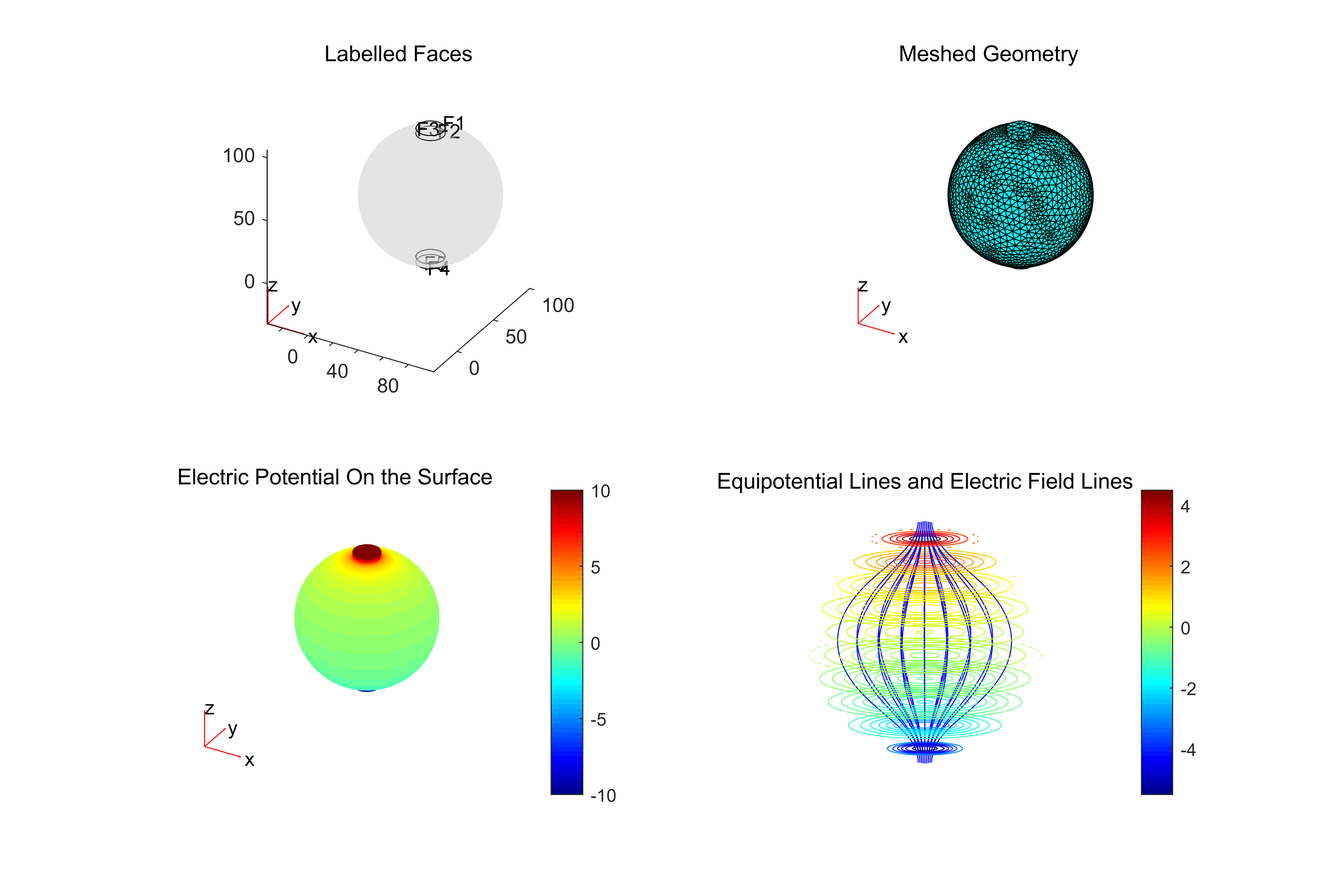
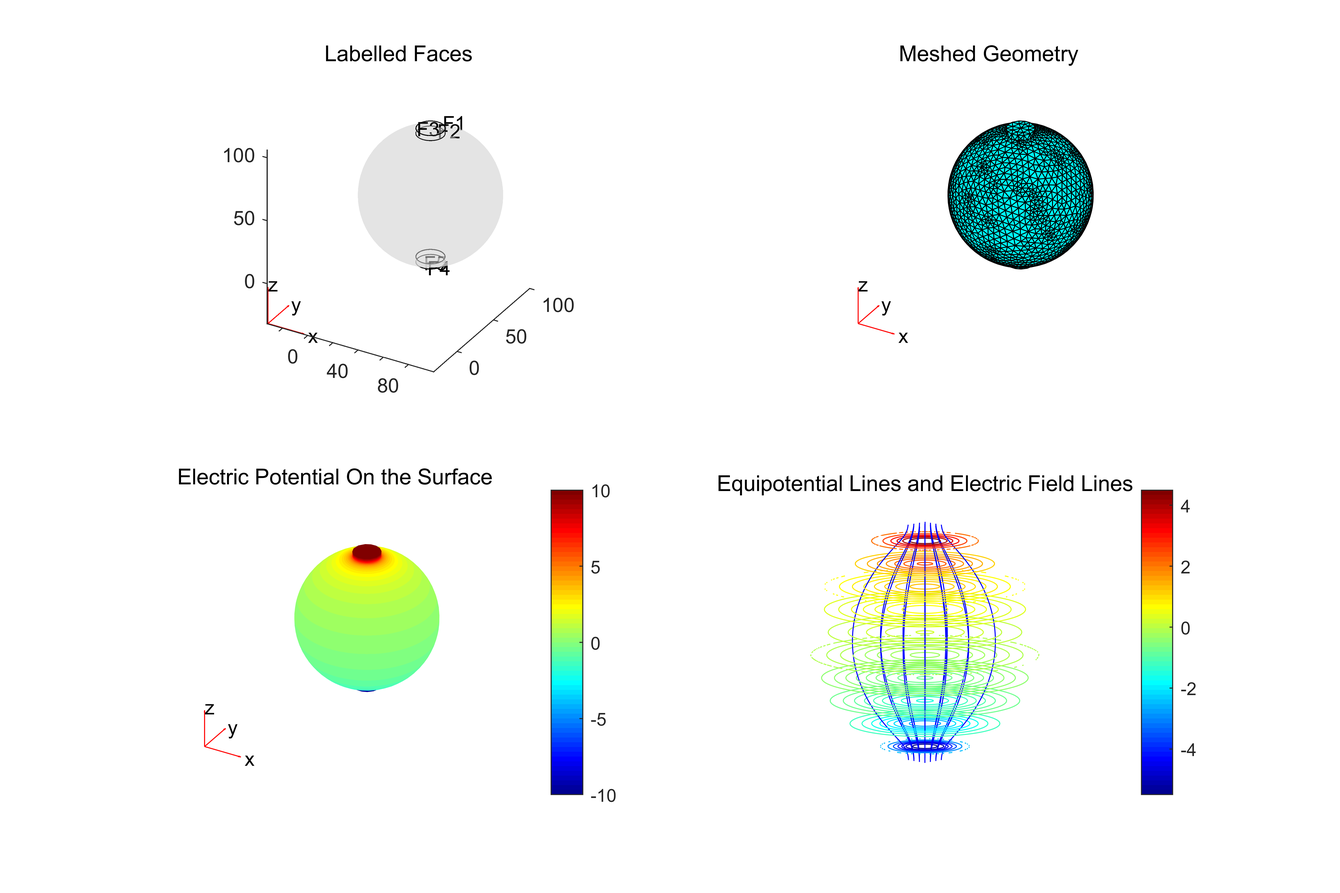
update hw10

Changed region(s): [[0.6222, 0.5928, 0.7778, 0.8736], [0.5289, 0.5304, 0.84, 0.5616]]

diff --git a/hw10/index.html b/hw10/index.html
@@ -300,6 +300,6 @@ header, .context-menu, .megamenu-content, footer { font-family: "Segoe UI", Aria
 </style>
 </head>
 <body class='typora-export os-windows' >
-<div  id='write'  class = 'is-node'><h1><a name='header-n0' class='md-header-anchor '></a>HOMEWORK NO.10</h1><pre spellcheck="false" class="md-fences md-end-block md-fences-with-lineno ty-contain-cm modeLoaded" lang="matlab" style="break-inside: unset;"><div class="CodeMirror cm-s-inner CodeMirror-wrap" lang="matlab"><div style="overflow: hidden; position: relative; width: 3px; height: 0px; top: 0px; left: 45px;"><textarea autocorrect="off" autocapitalize="off" spellcheck="false" tabindex="0" style="position: absolute; bottom: -1em; padding: 0px; width: 1000px; height: 1em; outline: none;"></textarea></div><div class="CodeMirror-scrollbar-filler" cm-not-content="true"></div><div class="CodeMirror-gutter-filler" cm-not-content="true"></div><div class="CodeMirror-scroll" tabindex="-1"><div class="CodeMirror-sizer" style="margin-left: 37px; margin-bottom: 0px; border-right-width: 0px; padding-right: 0px; padding-bottom: 0px;"><div style="position: relative; top: 0px;"><div class="CodeMirror-lines" role="presentation"><div role="presentation" style="position: relative; outline: none;"><div class="CodeMirror-measure"><span><span></span>x</span></div><div class="CodeMirror-measure"></div><div style="position: relative; z-index: 1;"></div><div class="CodeMirror-code" role="presentation" style=""><div class="CodeMirror-activeline" style="position: relative;"><div class="CodeMirror-activeline-background CodeMirror-linebackground"></div><div class="CodeMirror-gutter-background CodeMirror-activeline-gutter" style="left: -37px; width: 37px;"></div><div class="CodeMirror-gutter-wrapper CodeMirror-activeline-gutter" style="left: -37px;"><div class="CodeMirror-linenumber CodeMirror-gutter-elt CodeMirror-linenumber-show" style="left: 0px; width: 28px;">1</div></div><pre class=" CodeMirror-line " role="presentation"><span role="presentation" style="padding-right: 0.1px;"><span class="cm-comment">% import the solving obiect</span></span></pre></div><div style="position: relative;"><div class="CodeMirror-gutter-wrapper" style="left: -37px;"><div class="CodeMirror-linenumber CodeMirror-gutter-elt" style="left: 0px; width: 28px;">2</div></div><pre class=" CodeMirror-line " role="presentation"><span role="presentation" style="padding-right: 0.1px;"><span class="cm-variable">model</span>=<span class="cm-variable">createpde</span>;</span></pre></div><div style="position: relative;"><div class="CodeMirror-gutter-wrapper" style="left: -37px;"><div class="CodeMirror-linenumber CodeMirror-gutter-elt" style="left: 0px; width: 28px;">3</div></div><pre class=" CodeMirror-line " role="presentation"><span role="presentation" style="padding-right: 0.1px;"><span class="cm-variable">importGeometry</span>(<span class="cm-variable">model</span>,<span class="cm-string">'qiu.STL'</span>);</span></pre></div><div style="position: relative;"><div class="CodeMirror-gutter-wrapper" style="left: -37px;"><div class="CodeMirror-linenumber CodeMirror-gutter-elt" style="left: 0px; width: 28px;">4</div></div><pre class=" CodeMirror-line " role="presentation"><span role="presentation" style="padding-right: 0.1px;"><span class="cm-variable">figure</span>( <span class="cm-string">'Position'</span>, [<span class="cm-number">100</span> <span class="cm-number">100</span> <span class="cm-number">900</span> <span class="cm-number">600</span>],<span class="cm-string">'Color'</span>,<span class="cm-string">'w'</span>)</span></pre></div><div style="position: relative;"><div class="CodeMirror-gutter-wrapper" style="left: -37px;"><div class="CodeMirror-linenumber CodeMirror-gutter-elt" style="left: 0px; width: 28px;">5</div></div><pre class=" CodeMirror-line " role="presentation"><span role="presentation" style="padding-right: 0.1px;"><span class="cm-variable">subplot</span>(<span class="cm-number">2</span>,<span class="cm-number">2</span>,<span class="cm-number">1</span>);<span class="cm-variable">hold</span> <span class="cm-variable">on</span>;<span class="cm-builtin">title</span>(<span class="cm-string">'Labelled Faces'</span>)</span></pre></div><div style="position: relative;"><div class="CodeMirror-gutter-wrapper" style="left: -37px;"><div class="CodeMirror-linenumber CodeMirror-gutter-elt" style="left: 0px; width: 28px;">6</div></div><pre class=" CodeMirror-line " role="presentation"><span role="presentation" style="padding-right: 0.1px;"><span class="cm-variable">pdegplot</span>(<span class="cm-variable">model</span>,<span class="cm-string">'facelabels'</span>,<span class="cm-string">'on'</span>,<span class="cm-string">'FaceAlpha'</span>,<span class="cm-number">0.5</span>); &nbsp;<span class="cm-comment">% view the geometry with face labels</span></span></pre></div><div style="position: relative;"><div class="CodeMirror-gutter-wrapper" style="left: -37px;"><div class="CodeMirror-linenumber CodeMirror-gutter-elt" style="left: 0px; width: 28px;">7</div></div><pre class=" CodeMirror-line " role="presentation"><span role="presentation" style="padding-right: 0.1px;"><span cm-text=""></span></span></pre></div><div style="position: relative;"><div class="CodeMirror-gutter-wrapper" style="left: -37px;"><div class="CodeMirror-linenumber CodeMirror-gutter-elt" style="left: 0px; width: 28px;">8</div></div><pre class=" CodeMirror-line " role="presentation"><span role="presentation" style="padding-right: 0.1px;"><span class="cm-comment">% specify coefficients for Laplace equation in the model</span></span></pre></div><div style="position: relative;"><div class="CodeMirror-gutter-wrapper" style="left: -37px;"><div class="CodeMirror-linenumber CodeMirror-gutter-elt" style="left: 0px; width: 28px;">9</div></div><pre class=" CodeMirror-line " role="presentation"><span role="presentation" style="padding-right: 0.1px;"><span class="cm-variable">specifyCoefficients</span>(<span class="cm-variable">model</span>,<span class="cm-string">'m'</span>,<span class="cm-number">0</span>,<span class="cm-string">'d'</span>,<span class="cm-number">0</span>,<span class="cm-string">'c'</span>,<span class="cm-number">1</span>,<span class="cm-string">'a'</span>,<span class="cm-number">0</span>,<span class="cm-string">'f'</span>,<span class="cm-number">0</span>);</span></pre></div><div style="position: relative;"><div class="CodeMirror-gutter-wrapper" style="left: -37px;"><div class="CodeMirror-linenumber CodeMirror-gutter-elt CodeMirror-linenumber-show" style="left: 0px; width: 28px;">10</div></div><pre class=" CodeMirror-line " role="presentation"><span role="presentation" style="padding-right: 0.1px;"> &nbsp; &nbsp; &nbsp; &nbsp; &nbsp; &nbsp; &nbsp; &nbsp; &nbsp; &nbsp; &nbsp;</span></pre></div><div style="position: relative;"><div class="CodeMirror-gutter-wrapper" style="left: -37px;"><div class="CodeMirror-linenumber CodeMirror-gutter-elt" style="left: 0px; width: 28px;">11</div></div><pre class=" CodeMirror-line " role="presentation"><span role="presentation" style="padding-right: 0.1px;"><span class="cm-comment">% apply boundary conditions</span></span></pre></div><div style="position: relative;"><div class="CodeMirror-gutter-wrapper" style="left: -37px;"><div class="CodeMirror-linenumber CodeMirror-gutter-elt" style="left: 0px; width: 28px;">12</div></div><pre class=" CodeMirror-line " role="presentation"><span role="presentation" style="padding-right: 0.1px;"><span class="cm-variable">applyBoundaryCondition</span>(<span class="cm-variable">model</span>,<span class="cm-string">'neumann'</span>,<span class="cm-string">'Face'</span>,[<span class="cm-number">1</span>,<span class="cm-number">2</span>,<span class="cm-number">4</span>],<span class="cm-string">'q'</span>,<span class="cm-number">0</span>,<span class="cm-string">'g'</span>,<span class="cm-number">0</span>);</span></pre></div><div style="position: relative;"><div class="CodeMirror-gutter-wrapper" style="left: -37px;"><div class="CodeMirror-linenumber CodeMirror-gutter-elt" style="left: 0px; width: 28px;">13</div></div><pre class=" CodeMirror-line " role="presentation"><span role="presentation" style="padding-right: 0.1px;"><span class="cm-variable">applyBoundaryCondition</span>(<span class="cm-variable">model</span>,<span class="cm-string">'dirichlet'</span>,<span class="cm-string">'Face'</span>,<span class="cm-number">3</span>,<span class="cm-string">'u'</span>,<span class="cm-number">10</span>);</span></pre></div><div style="position: relative;"><div class="CodeMirror-gutter-wrapper" style="left: -37px;"><div class="CodeMirror-linenumber CodeMirror-gutter-elt" style="left: 0px; width: 28px;">14</div></div><pre class=" CodeMirror-line " role="presentation"><span role="presentation" style="padding-right: 0.1px;"><span class="cm-variable">applyBoundaryCondition</span>(<span class="cm-variable">model</span>,<span class="cm-string">'dirichlet'</span>,<span class="cm-string">'Face'</span>,<span class="cm-number">5</span>,<span class="cm-string">'u'</span>,<span class="cm-number">-10</span>);</span></pre></div><div style="position: relative;"><div class="CodeMirror-gutter-wrapper" style="left: -37px;"><div class="CodeMirror-linenumber CodeMirror-gutter-elt" style="left: 0px; width: 28px;">15</div></div><pre class=" CodeMirror-line " role="presentation"><span role="presentation" style="padding-right: 0.1px;"><span class="cm-comment">% applyBoundaryCondition(model,'neumann','Face',3,'q',1,'g',10);</span></span></pre></div><div style="position: relative;"><div class="CodeMirror-gutter-wrapper" style="left: -37px;"><div class="CodeMirror-linenumber CodeMirror-gutter-elt" style="left: 0px; width: 28px;">16</div></div><pre class=" CodeMirror-line " role="presentation"><span role="presentation" style="padding-right: 0.1px;"><span class="cm-comment">% applyBoundaryCondition(model,'neumann','Face',5,'q',1,'g',-10);</span></span></pre></div><div style="position: relative;"><div class="CodeMirror-gutter-wrapper" style="left: -37px;"><div class="CodeMirror-linenumber CodeMirror-gutter-elt" style="left: 0px; width: 28px;">17</div></div><pre class=" CodeMirror-line " role="presentation"><span role="presentation" style="padding-right: 0.1px;"><span cm-text=""></span></span></pre></div><div style="position: relative;"><div class="CodeMirror-gutter-wrapper" style="left: -37px;"><div class="CodeMirror-linenumber CodeMirror-gutter-elt" style="left: 0px; width: 28px;">18</div></div><pre class=" CodeMirror-line " role="presentation"><span role="presentation" style="padding-right: 0.1px;"><span class="cm-comment">% mesh the geometry for solve</span></span></pre></div><div style="position: relative;"><div class="CodeMirror-gutter-wrapper" style="left: -37px;"><div class="CodeMirror-linenumber CodeMirror-gutter-elt" style="left: 0px; width: 28px;">19</div></div><pre class=" CodeMirror-line " role="presentation"><span role="presentation" style="padding-right: 0.1px;"><span class="cm-variable">generateMesh</span>(<span class="cm-variable">model</span>,<span class="cm-string">'Hmax'</span>,<span class="cm-number">5</span>);</span></pre></div><div style="position: relative;"><div class="CodeMirror-gutter-wrapper" style="left: -37px;"><div class="CodeMirror-linenumber CodeMirror-gutter-elt CodeMirror-linenumber-show" style="left: 0px; width: 28px;">20</div></div><pre class=" CodeMirror-line " role="presentation"><span role="presentation" style="padding-right: 0.1px;"><span class="cm-variable">subplot</span>(<span class="cm-number">2</span>,<span class="cm-number">2</span>,<span class="cm-number">2</span>);<span class="cm-variable">hold</span> <span class="cm-variable">on</span>;<span class="cm-builtin">title</span>(<span class="cm-string">'Meshed Geometry'</span>)</span></pre></div><div style="position: relative;"><div class="CodeMirror-gutter-wrapper" style="left: -37px;"><div class="CodeMirror-linenumber CodeMirror-gutter-elt" style="left: 0px; width: 28px;">21</div></div><pre class=" CodeMirror-line " role="presentation"><span role="presentation" style="padding-right: 0.1px;"><span class="cm-variable">pdeplot3D</span>(<span class="cm-variable">model</span>,<span class="cm-string">'Mesh'</span> ,<span class="cm-string">'on'</span>)</span></pre></div><div style="position: relative;"><div class="CodeMirror-gutter-wrapper" style="left: -37px;"><div class="CodeMirror-linenumber CodeMirror-gutter-elt" style="left: 0px; width: 28px;">22</div></div><pre class=" CodeMirror-line " role="presentation"><span role="presentation" style="padding-right: 0.1px;"><span cm-text=""></span></span></pre></div><div style="position: relative;"><div class="CodeMirror-gutter-wrapper" style="left: -37px;"><div class="CodeMirror-linenumber CodeMirror-gutter-elt" style="left: 0px; width: 28px;">23</div></div><pre class=" CodeMirror-line " role="presentation"><span role="presentation" style="padding-right: 0.1px;"><span class="cm-comment">% solve the model</span></span></pre></div><div style="position: relative;"><div class="CodeMirror-gutter-wrapper" style="left: -37px;"><div class="CodeMirror-linenumber CodeMirror-gutter-elt" style="left: 0px; width: 28px;">24</div></div><pre class=" CodeMirror-line " role="presentation"><span role="presentation" style="padding-right: 0.1px;"><span class="cm-variable">results</span> = <span class="cm-variable">solvepde</span>(<span class="cm-variable">model</span>);</span></pre></div><div style="position: relative;"><div class="CodeMirror-gutter-wrapper" style="left: -37px;"><div class="CodeMirror-linenumber CodeMirror-gutter-elt" style="left: 0px; width: 28px;">25</div></div><pre class=" CodeMirror-line " role="presentation"><span role="presentation" style="padding-right: 0.1px;"><span class="cm-variable">subplot</span>(<span class="cm-number">2</span>,<span class="cm-number">2</span>,<span class="cm-number">3</span>);<span class="cm-variable">hold</span> <span class="cm-variable">on</span>;<span class="cm-builtin">title</span>(<span class="cm-string">'Electric Potential On the Surface'</span>)</span></pre></div><div style="position: relative;"><div class="CodeMirror-gutter-wrapper" style="left: -37px;"><div class="CodeMirror-linenumber CodeMirror-gutter-elt" style="left: 0px; width: 28px;">26</div></div><pre class=" CodeMirror-line " role="presentation"><span role="presentation" style="padding-right: 0.1px;"><span class="cm-variable">pdeplot3D</span>(<span class="cm-variable">model</span>,<span class="cm-string">'ColorMapData'</span>,<span class="cm-variable">results</span><span class="cm-error">.</span><span class="cm-variable">NodalSolution</span>)</span></pre></div><div style="position: relative;"><div class="CodeMirror-gutter-wrapper" style="left: -37px;"><div class="CodeMirror-linenumber CodeMirror-gutter-elt" style="left: 0px; width: 28px;">27</div></div><pre class=" CodeMirror-line " role="presentation"><span role="presentation" style="padding-right: 0.1px;"><span cm-text=""></span></span></pre></div><div style="position: relative;"><div class="CodeMirror-gutter-wrapper" style="left: -37px;"><div class="CodeMirror-linenumber CodeMirror-gutter-elt" style="left: 0px; width: 28px;">28</div></div><pre class=" CodeMirror-line " role="presentation"><span role="presentation" style="padding-right: 0.1px;"><span class="cm-comment">% countourslice and field lines</span></span></pre></div><div style="position: relative;"><div class="CodeMirror-gutter-wrapper" style="left: -37px;"><div class="CodeMirror-linenumber CodeMirror-gutter-elt" style="left: 0px; width: 28px;">29</div></div><pre class=" CodeMirror-line " role="presentation"><span role="presentation" style="padding-right: 0.1px;">[<span class="cm-variable">X</span>,<span class="cm-variable">Y</span>,<span class="cm-variable">Z</span>] = <span class="cm-builtin">meshgrid</span>(<span class="cm-number">0</span>:<span class="cm-number">2</span>:<span class="cm-number">120</span>,<span class="cm-number">0</span>:<span class="cm-number">2</span>:<span class="cm-number">120</span>,<span class="cm-number">0</span>:<span class="cm-number">1</span>:<span class="cm-number">140</span>);</span></pre></div><div style="position: relative;"><div class="CodeMirror-gutter-wrapper" style="left: -37px;"><div class="CodeMirror-linenumber CodeMirror-gutter-elt CodeMirror-linenumber-show" style="left: 0px; width: 28px;">30</div></div><pre class=" CodeMirror-line " role="presentation"><span role="presentation" style="padding-right: 0.1px;"><span class="cm-variable">uintrp</span> = <span class="cm-variable">interpolateSolution</span>(<span class="cm-variable">results</span>,<span class="cm-variable">X</span>,<span class="cm-variable">Y</span>,<span class="cm-variable">Z</span>);</span></pre></div><div style="position: relative;"><div class="CodeMirror-gutter-wrapper" style="left: -37px;"><div class="CodeMirror-linenumber CodeMirror-gutter-elt" style="left: 0px; width: 28px;">31</div></div><pre class=" CodeMirror-line " role="presentation"><span role="presentation" style="padding-right: 0.1px;"><span class="cm-variable">uintrp</span> = <span class="cm-builtin">reshape</span>(<span class="cm-variable">uintrp</span>,<span class="cm-builtin">size</span>(<span class="cm-variable">X</span>));</span></pre></div><div style="position: relative;"><div class="CodeMirror-gutter-wrapper" style="left: -37px;"><div class="CodeMirror-linenumber CodeMirror-gutter-elt" style="left: 0px; width: 28px;">32</div></div><pre class=" CodeMirror-line " role="presentation"><span role="presentation" style="padding-right: 0.1px;"><span class="cm-variable">subplot</span>(<span class="cm-number">2</span>,<span class="cm-number">2</span>,<span class="cm-number">4</span>);<span class="cm-variable">view</span>(<span class="cm-number">45</span>,<span class="cm-number">10</span>);<span class="cm-variable">axis</span> <span class="cm-variable">equal</span>;<span class="cm-variable">axis</span> <span class="cm-variable">off</span>;<span class="cm-variable">hold</span> <span class="cm-variable">on</span></span></pre></div><div style="position: relative;"><div class="CodeMirror-gutter-wrapper" style="left: -37px;"><div class="CodeMirror-linenumber CodeMirror-gutter-elt" style="left: 0px; width: 28px;">33</div></div><pre class=" CodeMirror-line " role="presentation"><span role="presentation" style="padding-right: 0.1px;"><span class="cm-builtin">title</span>(<span class="cm-string">'Equipotential Lines and Electric Field Lines'</span>)</span></pre></div><div style="position: relative;"><div class="CodeMirror-gutter-wrapper" style="left: -37px;"><div class="CodeMirror-linenumber CodeMirror-gutter-elt" style="left: 0px; width: 28px;">34</div></div><pre class=" CodeMirror-line " role="presentation"><span role="presentation" style="padding-right: 0.1px;"><span class="cm-variable">contourslice</span>(<span class="cm-variable">X</span>,<span class="cm-variable">Y</span>,<span class="cm-variable">Z</span>,<span class="cm-variable">uintrp</span>,[],[],<span class="cm-number">7</span>:<span class="cm-number">10</span>:<span class="cm-number">107</span>)</span></pre></div><div style="position: relative;"><div class="CodeMirror-gutter-wrapper" style="left: -37px;"><div class="CodeMirror-linenumber CodeMirror-gutter-elt" style="left: 0px; width: 28px;">35</div></div><pre class=" CodeMirror-line " role="presentation"><span role="presentation" style="padding-right: 0.1px;"><span class="cm-variable">colormap</span> <span class="cm-variable">jet</span>;<span class="cm-variable">colorbar</span></span></pre></div><div style="position: relative;"><div class="CodeMirror-gutter-wrapper" style="left: -37px;"><div class="CodeMirror-linenumber CodeMirror-gutter-elt" style="left: 0px; width: 28px;">36</div></div><pre class=" CodeMirror-line " role="presentation"><span role="presentation" style="padding-right: 0.1px;"><span cm-text=""></span></span></pre></div><div style="position: relative;"><div class="CodeMirror-gutter-wrapper" style="left: -37px;"><div class="CodeMirror-linenumber CodeMirror-gutter-elt" style="left: 0px; width: 28px;">37</div></div><pre class=" CodeMirror-line " role="presentation"><span role="presentation" style="padding-right: 0.1px;">[<span class="cm-variable">Ex</span>,<span class="cm-variable">Ey</span>,<span class="cm-variable">Ez</span>]=<span class="cm-variable">gradient</span>(<span class="cm-variable">uintrp</span>);</span></pre></div><div style="position: relative;"><div class="CodeMirror-gutter-wrapper" style="left: -37px;"><div class="CodeMirror-linenumber CodeMirror-gutter-elt" style="left: 0px; width: 28px;">38</div></div><pre class=" CodeMirror-line " role="presentation"><span role="presentation" style="padding-right: 0.1px;">[<span class="cm-variable">sx</span>,<span class="cm-variable">sy</span>]=<span class="cm-builtin">meshgrid</span>(<span class="cm-builtin">linspace</span>(<span class="cm-number">-2+50</span>,<span class="cm-number">2+50</span>,<span class="cm-number">5</span>));</span></pre></div><div style="position: relative;"><div class="CodeMirror-gutter-wrapper" style="left: -37px;"><div class="CodeMirror-linenumber CodeMirror-gutter-elt CodeMirror-linenumber-show" style="left: 0px; width: 28px;">39</div></div><pre class=" CodeMirror-line " role="presentation"><span role="presentation" style="padding-right: 0.1px;"><span class="cm-variable">streamline</span>(<span class="cm-variable">X</span>,<span class="cm-variable">Y</span>,<span class="cm-variable">Z</span>,<span class="cm-variable">Ex</span>,<span class="cm-variable">Ey</span>,<span class="cm-variable">Ez</span>,<span class="cm-variable">sx</span>,<span class="cm-variable">sy</span>,<span class="cm-builtin">ones</span>(<span class="cm-variable">length</span>(<span class="cm-variable">sx</span>)))</span></pre></div></div></div></div></div></div><div style="position: absolute; height: 0px; width: 1px; border-bottom: 0px solid transparent; top: 896px;"></div><div class="CodeMirror-gutters" style="height: 896px;"><div class="CodeMirror-gutter CodeMirror-linenumbers" style="width: 36px;"></div></div></div></div></pre><p><img src='/ComPhy_Peng/hw10/fig.png' alt='' referrerPolicy='no-referrer' /></p></div>
+<div  id='write'  class = 'is-node'><h1><a name='header-n0' class='md-header-anchor '></a>HOMEWORK NO.10</h1><pre spellcheck="false" class="md-fences md-end-block md-fences-with-lineno ty-contain-cm modeLoaded" lang="matlab" style="break-inside: unset;"><div class="CodeMirror cm-s-inner CodeMirror-wrap" lang="matlab"><div style="overflow: hidden; position: relative; width: 3px; height: 0px; top: 873.6px; left: 469.8px;"><textarea autocorrect="off" autocapitalize="off" spellcheck="false" tabindex="0" style="position: absolute; bottom: -1em; padding: 0px; width: 1000px; height: 1em; outline: none;"></textarea></div><div class="CodeMirror-scrollbar-filler" cm-not-content="true"></div><div class="CodeMirror-gutter-filler" cm-not-content="true"></div><div class="CodeMirror-scroll" tabindex="-1"><div class="CodeMirror-sizer" style="margin-left: 37px; margin-bottom: 0px; border-right-width: 0px; padding-right: 0px; padding-bottom: 0px;"><div style="position: relative; top: 0px;"><div class="CodeMirror-lines" role="presentation"><div role="presentation" style="position: relative; outline: none;"><div class="CodeMirror-measure"><pre>x</pre></div><div class="CodeMirror-measure"></div><div style="position: relative; z-index: 1;"></div><div class="CodeMirror-code" role="presentation" style=""><div style="position: relative;"><div class="CodeMirror-gutter-wrapper" style="left: -37px;"><div class="CodeMirror-linenumber CodeMirror-gutter-elt CodeMirror-linenumber-show" style="left: 0px; width: 28px;">1</div></div><pre class=" CodeMirror-line " role="presentation"><span role="presentation" style="padding-right: 0.1px;"><span class="cm-comment">% import the solving obiect</span></span></pre></div><div style="position: relative;"><div class="CodeMirror-gutter-wrapper" style="left: -37px;"><div class="CodeMirror-linenumber CodeMirror-gutter-elt" style="left: 0px; width: 28px;">2</div></div><pre class=" CodeMirror-line " role="presentation"><span role="presentation" style="padding-right: 0.1px;"><span class="cm-variable">model</span>=<span class="cm-variable">createpde</span>;</span></pre></div><div style="position: relative;"><div class="CodeMirror-gutter-wrapper" style="left: -37px;"><div class="CodeMirror-linenumber CodeMirror-gutter-elt" style="left: 0px; width: 28px;">3</div></div><pre class=" CodeMirror-line " role="presentation"><span role="presentation" style="padding-right: 0.1px;"><span class="cm-variable">importGeometry</span>(<span class="cm-variable">model</span>,<span class="cm-string">'qiu.STL'</span>);</span></pre></div><div style="position: relative;"><div class="CodeMirror-gutter-wrapper" style="left: -37px;"><div class="CodeMirror-linenumber CodeMirror-gutter-elt" style="left: 0px; width: 28px;">4</div></div><pre class=" CodeMirror-line " role="presentation"><span role="presentation" style="padding-right: 0.1px;"><span class="cm-variable">figure</span>( <span class="cm-string">'Position'</span>, [<span class="cm-number">100</span> <span class="cm-number">100</span> <span class="cm-number">900</span> <span class="cm-number">600</span>],<span class="cm-string">'Color'</span>,<span class="cm-string">'w'</span>)</span></pre></div><div style="position: relative;"><div class="CodeMirror-gutter-wrapper" style="left: -37px;"><div class="CodeMirror-linenumber CodeMirror-gutter-elt" style="left: 0px; width: 28px;">5</div></div><pre class=" CodeMirror-line " role="presentation"><span role="presentation" style="padding-right: 0.1px;"><span class="cm-variable">subplot</span>(<span class="cm-number">2</span>,<span class="cm-number">2</span>,<span class="cm-number">1</span>);<span class="cm-variable">hold</span> <span class="cm-variable">on</span>;<span class="cm-builtin">title</span>(<span class="cm-string">'Labelled Faces'</span>)</span></pre></div><div style="position: relative;"><div class="CodeMirror-gutter-wrapper" style="left: -37px;"><div class="CodeMirror-linenumber CodeMirror-gutter-elt" style="left: 0px; width: 28px;">6</div></div><pre class=" CodeMirror-line " role="presentation"><span role="presentation" style="padding-right: 0.1px;"><span class="cm-variable">pdegplot</span>(<span class="cm-variable">model</span>,<span class="cm-string">'facelabels'</span>,<span class="cm-string">'on'</span>,<span class="cm-string">'FaceAlpha'</span>,<span class="cm-number">0.5</span>); &nbsp;<span class="cm-comment">% view the geometry with face labels</span></span></pre></div><div style="position: relative;"><div class="CodeMirror-gutter-wrapper" style="left: -37px;"><div class="CodeMirror-linenumber CodeMirror-gutter-elt" style="left: 0px; width: 28px;">7</div></div><pre class=" CodeMirror-line " role="presentation"><span role="presentation" style="padding-right: 0.1px;"><span cm-text=""></span></span></pre></div><div style="position: relative;"><div class="CodeMirror-gutter-wrapper" style="left: -37px;"><div class="CodeMirror-linenumber CodeMirror-gutter-elt" style="left: 0px; width: 28px;">8</div></div><pre class=" CodeMirror-line " role="presentation"><span role="presentation" style="padding-right: 0.1px;"><span class="cm-comment">% specify coefficients for Laplace equation in the model</span></span></pre></div><div style="position: relative;"><div class="CodeMirror-gutter-wrapper" style="left: -37px;"><div class="CodeMirror-linenumber CodeMirror-gutter-elt" style="left: 0px; width: 28px;">9</div></div><pre class=" CodeMirror-line " role="presentation"><span role="presentation" style="padding-right: 0.1px;"><span class="cm-variable">specifyCoefficients</span>(<span class="cm-variable">model</span>,<span class="cm-string">'m'</span>,<span class="cm-number">0</span>,<span class="cm-string">'d'</span>,<span class="cm-number">0</span>,<span class="cm-string">'c'</span>,<span class="cm-number">1</span>,<span class="cm-string">'a'</span>,<span class="cm-number">0</span>,<span class="cm-string">'f'</span>,<span class="cm-number">0</span>);</span></pre></div><div style="position: relative;"><div class="CodeMirror-gutter-wrapper" style="left: -37px;"><div class="CodeMirror-linenumber CodeMirror-gutter-elt CodeMirror-linenumber-show" style="left: 0px; width: 28px;">10</div></div><pre class=" CodeMirror-line " role="presentation"><span role="presentation" style="padding-right: 0.1px;"> &nbsp; &nbsp; &nbsp; &nbsp; &nbsp; &nbsp; &nbsp; &nbsp; &nbsp; &nbsp; &nbsp;</span></pre></div><div style="position: relative;"><div class="CodeMirror-gutter-wrapper" style="left: -37px;"><div class="CodeMirror-linenumber CodeMirror-gutter-elt" style="left: 0px; width: 28px;">11</div></div><pre class=" CodeMirror-line " role="presentation"><span role="presentation" style="padding-right: 0.1px;"><span class="cm-comment">% apply boundary conditions</span></span></pre></div><div style="position: relative;"><div class="CodeMirror-gutter-wrapper" style="left: -37px;"><div class="CodeMirror-linenumber CodeMirror-gutter-elt" style="left: 0px; width: 28px;">12</div></div><pre class=" CodeMirror-line " role="presentation"><span role="presentation" style="padding-right: 0.1px;"><span class="cm-variable">applyBoundaryCondition</span>(<span class="cm-variable">model</span>,<span class="cm-string">'neumann'</span>,<span class="cm-string">'Face'</span>,[<span class="cm-number">1</span>,<span class="cm-number">2</span>,<span class="cm-number">4</span>],<span class="cm-string">'q'</span>,<span class="cm-number">0</span>,<span class="cm-string">'g'</span>,<span class="cm-number">0</span>);</span></pre></div><div style="position: relative;"><div class="CodeMirror-gutter-wrapper" style="left: -37px;"><div class="CodeMirror-linenumber CodeMirror-gutter-elt" style="left: 0px; width: 28px;">13</div></div><pre class=" CodeMirror-line " role="presentation"><span role="presentation" style="padding-right: 0.1px;"><span class="cm-variable">applyBoundaryCondition</span>(<span class="cm-variable">model</span>,<span class="cm-string">'dirichlet'</span>,<span class="cm-string">'Face'</span>,<span class="cm-number">3</span>,<span class="cm-string">'u'</span>,<span class="cm-number">10</span>);</span></pre></div><div style="position: relative;"><div class="CodeMirror-gutter-wrapper" style="left: -37px;"><div class="CodeMirror-linenumber CodeMirror-gutter-elt" style="left: 0px; width: 28px;">14</div></div><pre class=" CodeMirror-line " role="presentation"><span role="presentation" style="padding-right: 0.1px;"><span class="cm-variable">applyBoundaryCondition</span>(<span class="cm-variable">model</span>,<span class="cm-string">'dirichlet'</span>,<span class="cm-string">'Face'</span>,<span class="cm-number">5</span>,<span class="cm-string">'u'</span>,<span class="cm-number">-10</span>);</span></pre></div><div style="position: relative;"><div class="CodeMirror-gutter-wrapper" style="left: -37px;"><div class="CodeMirror-linenumber CodeMirror-gutter-elt" style="left: 0px; width: 28px;">15</div></div><pre class=" CodeMirror-line " role="presentation"><span role="presentation" style="padding-right: 0.1px;"><span class="cm-comment">% applyBoundaryCondition(model,'neumann','Face',3,'q',1,'g',10);</span></span></pre></div><div style="position: relative;"><div class="CodeMirror-gutter-wrapper" style="left: -37px;"><div class="CodeMirror-linenumber CodeMirror-gutter-elt" style="left: 0px; width: 28px;">16</div></div><pre class=" CodeMirror-line " role="presentation"><span role="presentation" style="padding-right: 0.1px;"><span class="cm-comment">% applyBoundaryCondition(model,'neumann','Face',5,'q',1,'g',-10);</span></span></pre></div><div style="position: relative;"><div class="CodeMirror-gutter-wrapper" style="left: -37px;"><div class="CodeMirror-linenumber CodeMirror-gutter-elt" style="left: 0px; width: 28px;">17</div></div><pre class=" CodeMirror-line " role="presentation"><span role="presentation" style="padding-right: 0.1px;"><span cm-text=""></span></span></pre></div><div style="position: relative;"><div class="CodeMirror-gutter-wrapper" style="left: -37px;"><div class="CodeMirror-linenumber CodeMirror-gutter-elt" style="left: 0px; width: 28px;">18</div></div><pre class=" CodeMirror-line " role="presentation"><span role="presentation" style="padding-right: 0.1px;"><span class="cm-comment">% mesh the geometry for solve</span></span></pre></div><div style="position: relative;"><div class="CodeMirror-gutter-wrapper" style="left: -37px;"><div class="CodeMirror-linenumber CodeMirror-gutter-elt" style="left: 0px; width: 28px;">19</div></div><pre class=" CodeMirror-line " role="presentation"><span role="presentation" style="padding-right: 0.1px;"><span class="cm-variable">generateMesh</span>(<span class="cm-variable">model</span>,<span class="cm-string">'Hmax'</span>,<span class="cm-number">5</span>);</span></pre></div><div style="position: relative;"><div class="CodeMirror-gutter-wrapper" style="left: -37px;"><div class="CodeMirror-linenumber CodeMirror-gutter-elt CodeMirror-linenumber-show" style="left: 0px; width: 28px;">20</div></div><pre class=" CodeMirror-line " role="presentation"><span role="presentation" style="padding-right: 0.1px;"><span class="cm-variable">subplot</span>(<span class="cm-number">2</span>,<span class="cm-number">2</span>,<span class="cm-number">2</span>);<span class="cm-variable">hold</span> <span class="cm-variable">on</span>;<span class="cm-builtin">title</span>(<span class="cm-string">'Meshed Geometry'</span>)</span></pre></div><div style="position: relative;"><div class="CodeMirror-gutter-wrapper" style="left: -37px;"><div class="CodeMirror-linenumber CodeMirror-gutter-elt" style="left: 0px; width: 28px;">21</div></div><pre class=" CodeMirror-line " role="presentation"><span role="presentation" style="padding-right: 0.1px;"><span class="cm-variable">pdeplot3D</span>(<span class="cm-variable">model</span>,<span class="cm-string">'Mesh'</span> ,<span class="cm-string">'on'</span>)</span></pre></div><div style="position: relative;"><div class="CodeMirror-gutter-wrapper" style="left: -37px;"><div class="CodeMirror-linenumber CodeMirror-gutter-elt" style="left: 0px; width: 28px;">22</div></div><pre class=" CodeMirror-line " role="presentation"><span role="presentation" style="padding-right: 0.1px;"><span cm-text=""></span></span></pre></div><div style="position: relative;"><div class="CodeMirror-gutter-wrapper" style="left: -37px;"><div class="CodeMirror-linenumber CodeMirror-gutter-elt" style="left: 0px; width: 28px;">23</div></div><pre class=" CodeMirror-line " role="presentation"><span role="presentation" style="padding-right: 0.1px;"><span class="cm-comment">% solve the model</span></span></pre></div><div style="position: relative;"><div class="CodeMirror-gutter-wrapper" style="left: -37px;"><div class="CodeMirror-linenumber CodeMirror-gutter-elt" style="left: 0px; width: 28px;">24</div></div><pre class=" CodeMirror-line " role="presentation"><span role="presentation" style="padding-right: 0.1px;"><span class="cm-variable">results</span> = <span class="cm-variable">solvepde</span>(<span class="cm-variable">model</span>);</span></pre></div><div style="position: relative;"><div class="CodeMirror-gutter-wrapper" style="left: -37px;"><div class="CodeMirror-linenumber CodeMirror-gutter-elt" style="left: 0px; width: 28px;">25</div></div><pre class=" CodeMirror-line " role="presentation"><span role="presentation" style="padding-right: 0.1px;"><span class="cm-variable">subplot</span>(<span class="cm-number">2</span>,<span class="cm-number">2</span>,<span class="cm-number">3</span>);<span class="cm-variable">hold</span> <span class="cm-variable">on</span>;<span class="cm-builtin">title</span>(<span class="cm-string">'Electric Potential On the Surface'</span>)</span></pre></div><div style="position: relative;"><div class="CodeMirror-gutter-wrapper" style="left: -37px;"><div class="CodeMirror-linenumber CodeMirror-gutter-elt" style="left: 0px; width: 28px;">26</div></div><pre class=" CodeMirror-line " role="presentation"><span role="presentation" style="padding-right: 0.1px;"><span class="cm-variable">pdeplot3D</span>(<span class="cm-variable">model</span>,<span class="cm-string">'ColorMapData'</span>,<span class="cm-variable">results</span><span class="cm-error">.</span><span class="cm-variable">NodalSolution</span>)</span></pre></div><div style="position: relative;"><div class="CodeMirror-gutter-wrapper" style="left: -37px;"><div class="CodeMirror-linenumber CodeMirror-gutter-elt" style="left: 0px; width: 28px;">27</div></div><pre class=" CodeMirror-line " role="presentation"><span role="presentation" style="padding-right: 0.1px;"><span cm-text=""></span></span></pre></div><div style="position: relative;"><div class="CodeMirror-gutter-wrapper" style="left: -37px;"><div class="CodeMirror-linenumber CodeMirror-gutter-elt" style="left: 0px; width: 28px;">28</div></div><pre class=" CodeMirror-line " role="presentation"><span role="presentation" style="padding-right: 0.1px;"><span class="cm-comment">% countourslice and field lines</span></span></pre></div><div style="position: relative;"><div class="CodeMirror-gutter-wrapper" style="left: -37px;"><div class="CodeMirror-linenumber CodeMirror-gutter-elt" style="left: 0px; width: 28px;">29</div></div><pre class=" CodeMirror-line " role="presentation"><span role="presentation" style="padding-right: 0.1px;">[<span class="cm-variable">X</span>,<span class="cm-variable">Y</span>,<span class="cm-variable">Z</span>] = <span class="cm-builtin">meshgrid</span>(<span class="cm-number">0</span>:<span class="cm-number">120</span>,<span class="cm-number">0</span>:<span class="cm-number">120</span>,<span class="cm-number">0</span>:<span class="cm-number">120</span>);</span></pre></div><div style="position: relative;"><div class="CodeMirror-gutter-wrapper" style="left: -37px;"><div class="CodeMirror-linenumber CodeMirror-gutter-elt CodeMirror-linenumber-show" style="left: 0px; width: 28px;">30</div></div><pre class=" CodeMirror-line " role="presentation"><span role="presentation" style="padding-right: 0.1px;"><span class="cm-variable">uintrp</span> = <span class="cm-variable">interpolateSolution</span>(<span class="cm-variable">results</span>,<span class="cm-variable">X</span>,<span class="cm-variable">Y</span>,<span class="cm-variable">Z</span>);</span></pre></div><div style="position: relative;"><div class="CodeMirror-gutter-wrapper" style="left: -37px;"><div class="CodeMirror-linenumber CodeMirror-gutter-elt" style="left: 0px; width: 28px;">31</div></div><pre class=" CodeMirror-line " role="presentation"><span role="presentation" style="padding-right: 0.1px;"><span class="cm-variable">uintrp</span> = <span class="cm-builtin">reshape</span>(<span class="cm-variable">uintrp</span>,<span class="cm-builtin">size</span>(<span class="cm-variable">X</span>));</span></pre></div><div style="position: relative;"><div class="CodeMirror-gutter-wrapper" style="left: -37px;"><div class="CodeMirror-linenumber CodeMirror-gutter-elt" style="left: 0px; width: 28px;">32</div></div><pre class=" CodeMirror-line " role="presentation"><span role="presentation" style="padding-right: 0.1px;"><span class="cm-variable">subplot</span>(<span class="cm-number">2</span>,<span class="cm-number">2</span>,<span class="cm-number">4</span>);<span class="cm-variable">view</span>(<span class="cm-number">45</span>,<span class="cm-number">10</span>);<span class="cm-variable">axis</span> <span class="cm-variable">equal</span>;<span class="cm-variable">axis</span> <span class="cm-variable">off</span>;<span class="cm-variable">hold</span> <span class="cm-variable">on</span></span></pre></div><div style="position: relative;"><div class="CodeMirror-gutter-wrapper" style="left: -37px;"><div class="CodeMirror-linenumber CodeMirror-gutter-elt" style="left: 0px; width: 28px;">33</div></div><pre class=" CodeMirror-line " role="presentation"><span role="presentation" style="padding-right: 0.1px;"><span class="cm-builtin">title</span>(<span class="cm-string">'Equipotential Lines and Electric Field Lines'</span>)</span></pre></div><div style="position: relative;"><div class="CodeMirror-gutter-wrapper" style="left: -37px;"><div class="CodeMirror-linenumber CodeMirror-gutter-elt" style="left: 0px; width: 28px;">34</div></div><pre class=" CodeMirror-line " role="presentation"><span role="presentation" style="padding-right: 0.1px;"><span class="cm-variable">contourslice</span>(<span class="cm-variable">X</span>,<span class="cm-variable">Y</span>,<span class="cm-variable">Z</span>,<span class="cm-variable">uintrp</span>,[],[],<span class="cm-number">7</span>:<span class="cm-number">10</span>:<span class="cm-number">107</span>)</span></pre></div><div style="position: relative;"><div class="CodeMirror-gutter-wrapper" style="left: -37px;"><div class="CodeMirror-linenumber CodeMirror-gutter-elt" style="left: 0px; width: 28px;">35</div></div><pre class=" CodeMirror-line " role="presentation"><span role="presentation" style="padding-right: 0.1px;"><span class="cm-variable">colormap</span> <span class="cm-variable">jet</span>;<span class="cm-variable">colorbar</span></span></pre></div><div style="position: relative;"><div class="CodeMirror-gutter-wrapper" style="left: -37px;"><div class="CodeMirror-linenumber CodeMirror-gutter-elt" style="left: 0px; width: 28px;">36</div></div><pre class=" CodeMirror-line " role="presentation"><span role="presentation" style="padding-right: 0.1px;"><span cm-text=""></span></span></pre></div><div style="position: relative;"><div class="CodeMirror-gutter-wrapper" style="left: -37px;"><div class="CodeMirror-linenumber CodeMirror-gutter-elt" style="left: 0px; width: 28px;">37</div></div><pre class=" CodeMirror-line " role="presentation"><span role="presentation" style="padding-right: 0.1px;">[<span class="cm-variable">Ex</span>,<span class="cm-variable">Ey</span>,<span class="cm-variable">Ez</span>]=<span class="cm-variable">gradient</span>(<span class="cm-variable">uintrp</span>,<span class="cm-number">1</span>,<span class="cm-number">1</span>,<span class="cm-number">1</span>);</span></pre></div><div style="position: relative;"><div class="CodeMirror-gutter-wrapper" style="left: -37px;"><div class="CodeMirror-linenumber CodeMirror-gutter-elt" style="left: 0px; width: 28px;">38</div></div><pre class=" CodeMirror-line " role="presentation"><span role="presentation" style="padding-right: 0.1px;">[<span class="cm-variable">sx</span>,<span class="cm-variable">sy</span>]=<span class="cm-builtin">meshgrid</span>(<span class="cm-builtin">linspace</span>(<span class="cm-number">-15+50</span>,<span class="cm-number">15+50</span>,<span class="cm-number">10</span>));</span></pre></div><div class="CodeMirror-activeline" style="position: relative;"><div class="CodeMirror-activeline-background CodeMirror-linebackground"></div><div class="CodeMirror-gutter-background CodeMirror-activeline-gutter" style="left: -37px; width: 37px;"></div><div class="CodeMirror-gutter-wrapper CodeMirror-activeline-gutter" style="left: -37px;"><div class="CodeMirror-linenumber CodeMirror-gutter-elt CodeMirror-linenumber-show" style="left: 0px; width: 28px;">39</div></div><pre class=" CodeMirror-line " role="presentation"><span role="presentation" style="padding-right: 0.1px;"><span class="cm-variable">streamline</span>(<span class="cm-variable">X</span>,<span class="cm-variable">Y</span>,<span class="cm-variable">Z</span>,<span class="cm-variable">Ex</span>,<span class="cm-variable">Ey</span>,<span class="cm-variable">Ez</span>,<span class="cm-variable">sx</span>,<span class="cm-variable">sy</span>,<span class="cm-builtin">ones</span>(<span class="cm-variable">length</span>(<span class="cm-variable">sx</span>)))</span></pre></div></div></div></div></div></div><div style="position: absolute; height: 0px; width: 1px; border-bottom: 0px solid transparent; top: 896px;"></div><div class="CodeMirror-gutters" style="height: 896px;"><div class="CodeMirror-gutter CodeMirror-linenumbers" style="width: 36px;"></div></div></div></div></pre><p><img src='/ComPhy_Peng/hw10/fig.png' alt='' referrerPolicy='no-referrer' /></p></div>
 </body>
 </html>

diff --git a/hw10/HOMEWORK NO.10.md b/hw10/HOMEWORK NO.10.md
@@ -29,7 +29,7 @@ subplot(2,2,3);hold on;title('Electric Potential On the Surface')
 pdeplot3D(model,'ColorMapData',results.NodalSolution)
 
 % countourslice and field lines
-[X,Y,Z] = meshgrid(0:2:120,0:2:120,0:1:140);
+[X,Y,Z] = meshgrid(0:120,0:120,0:120);
 uintrp = interpolateSolution(results,X,Y,Z);
 uintrp = reshape(uintrp,size(X));
 subplot(2,2,4);view(45,10);axis equal;axis off;hold on
@@ -37,8 +37,8 @@ title('Equipotential Lines and Electric Field Lines')
 contourslice(X,Y,Z,uintrp,[],[],7:10:107)
 colormap jet;colorbar
 
-[Ex,Ey,Ez]=gradient(uintrp);
-[sx,sy]=meshgrid(linspace(-2+50,2+50,5));
+[Ex,Ey,Ez]=gradient(uintrp,1,1,1);
+[sx,sy]=meshgrid(linspace(-15+50,15+50,10));
 streamline(X,Y,Z,Ex,Ey,Ez,sx,sy,ones(length(sx)))
 ```
 
